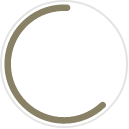
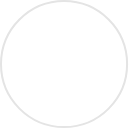
fix commment
show percent complete of profile
show job if edit

Changed region(s): [[0.031, 0.031, 0.8372, 0.9612]]

diff --git a/app/screen/JobProfile.js b/app/screen/JobProfile.js
@@ -158,6 +158,8 @@ class JobProfile extends Component {
       openModal: false,
       closeModal: false,
       isBack: false,
+      display: 'flex',
+      displayJob: 'none',
       ActivityIndicator: false,
       search: "",
       edit: -1,
@@ -260,7 +262,7 @@ class JobProfile extends Component {
   edit = (edit, position) => {
     global.typeEdit = 1;
 
-    this.setState({ visible: true, edit: edit, positionEdit: position });
+    this.setState({ visible: true, edit: edit, positionEdit: position, display: 'none', displayJob: 'flex' });
   };
 
   getNameJobFromId = (id) => {
@@ -507,6 +509,13 @@ class JobProfile extends Component {
     if (atBottom) this.setState({ position: this.state.position + 1 });
   };
 
+  showJob = () => {
+    if(this.state.display == 'none')
+    this.setState({ display: 'flex' });
+    else 
+    this.setState({ display: 'none' });
+  }
+
   render() {
     var visible;
 
@@ -530,7 +539,8 @@ class JobProfile extends Component {
       var text2 = commonData.profile;
       var text3 = commonData.what_i_want_to_do;
       var text4 = commonData.profession;
-
+      var text5 = commonData.select_new_job;
+      
       global.data1 = this.state.data1;
       global.data2 = this.state.data2;
       global.data3 = this.state.data3;
@@ -560,8 +570,21 @@ class JobProfile extends Component {
         <Portal>
           <Modal visible={visible}>
             <View style={style.modalHeader}>
-              <Text style={[style.modalHeadLine, styles.fontBoldNormal]}>
-                {text4}{'\n'}{actualJob}
+              <View style={{ display: this.state.displayJob, alignItems: 'center' }}>
+                <Text style={[style.modalHeadLineJob, styles.fontBoldNormal]}>
+                  {actualJob}
+                </Text>
+                <Button
+                  color="white"
+                  text={text5}
+                  style={[styles.button, style.buttonSelectNewJob]}
+                  onPress={() =>
+                    this.showJob()
+                  }
+                />
+              </View>
+              <Text style={[style.modalHeadLine, styles.fontBoldNormal, { display: this.state.display, marginTop: 10 }]}>
+                {text4}
               </Text>
               <TextInput
                 onChangeText={(value) => this.setState({ search: value })}
@@ -571,6 +594,7 @@ class JobProfile extends Component {
                 styleParent={[
                   {
                     borderColor: "#414141",
+                    display: this.state.display
                   },
                   styles.textInput,
                   style.textInput1,
@@ -598,7 +622,7 @@ class JobProfile extends Component {
               </View>
             </View>
             <ScrollView onScroll={this.handleScroll}>
-              <View style={style.modal}>
+              <View style={[style.modal, { display: this.state.display }]}>
                 {this.state.jobs.map(({ name, id }, index) => {
                   if (
                     name.includes(this.state.search) &&
@@ -674,6 +698,8 @@ class JobProfile extends Component {
                         openModal: true,
                         closeModal: false,
                         isBack: false,
+                        display: 'flex',
+                        displayJob: 'none'
                       })
                     }
                     icon={icon}
@@ -734,6 +760,12 @@ const style = StyleSheet.create({
   modalHeadLine: {
     marginTop: 30,
     marginBottom: 30,
+  },
+
+  modalHeadLineJob: {
+    marginTop: 30,
+    marginBottom: 10,
+    alignItems: 'center'
   },
 
   buttonCancel: {
@@ -884,7 +916,14 @@ const style = StyleSheet.create({
 
   parentSwitch: {
     position: 'absolute', right: 10, top: 10, zIndex: 9999999
-  }
+  },
+
+  buttonSelectNewJob: {
+    backgroundColor: "#898166",
+    marginTop: 0,
+    marginBottom: 10,
+    alignItems: 'center'
+  },
 });
 
 export default JobProfile;

diff --git a/app/components/CircularProgress.js b/app/components/CircularProgress.js
@@ -1,0 +1,46 @@
+import React from 'react';
+import { View, StyleSheet } from 'react-native';
+import Svg, { Circle, G } from 'react-native-svg';
+
+const CircularProgress = ({ size, strokeWidth, progress, color, backgroundColor }) => {
+  const radius = (size - strokeWidth) / 2;
+  const circumference = 2 * Math.PI * radius;
+  const strokeDashoffset = circumference - (circumference * progress) / 100;
+
+  return (
+    <View style={{ width: size, height: size }}>
+      <Svg width={size} height={size}>
+        <G rotation="-90" originX={size / 2} originY={size / 2}>
+          <Circle
+            stroke={backgroundColor}
+            cx={size / 2}
+            cy={size / 2}
+            r={radius}
+            strokeWidth={strokeWidth}
+            fill="none"
+          />
+          <Circle
+            stroke={color}
+            cx={size / 2}
+            cy={size / 2}
+            r={radius}
+            strokeWidth={strokeWidth}
+            strokeDasharray={circumference}
+            strokeDashoffset={strokeDashoffset}
+            fill="none"
+          />
+        </G>
+      </Svg>
+    </View>
+  );
+};
+
+const styles = StyleSheet.create({
+  container: {
+    flex: 1,
+    justifyContent: 'center',
+    alignItems: 'center',
+  },
+});
+
+export default CircularProgress;

diff --git a/app/screen/HomeScreen.js b/app/screen/HomeScreen.js
@@ -8,6 +8,8 @@ import {
   ActivityIndicator,
 } from "react-native";
 
+import Svg, { Circle, G } from 'react-native-svg';
+
 import { ScrollView } from "react-native-gesture-handler";
 import { hideNavigationBar } from "react-native-navigation-bar-color";
 
@@ -21,6 +23,7 @@ import Image from "../components/Image";
 import Href from "../components/Href";
 import IconBottom from "../components/IconBottom";
 import Header from "../components/Header";
+import CircularProgress from "../components/CircularProgress";
 
 import styles from "../../app/style/style";
 import functions from "../../app/function/function";
@@ -294,7 +297,13 @@ class HomeScreen extends Component {
                 <Text style={[styles.fontBoldSmall, style.textProfile]}>
                   {text9}
                 </Text>
-                <Image source={imgFillProlie} />
+                <CircularProgress
+        size={150}
+        strokeWidth={10}
+        progress={this.getPercentUser()} // percentage completed
+        color="#898166"
+        backgroundColor="#ccc"
+      />
                 <Text style={[style.textPercent, styles.fontBoldLargeNormal]}>
                   {this.getPercentUser()}%
                 </Text>
